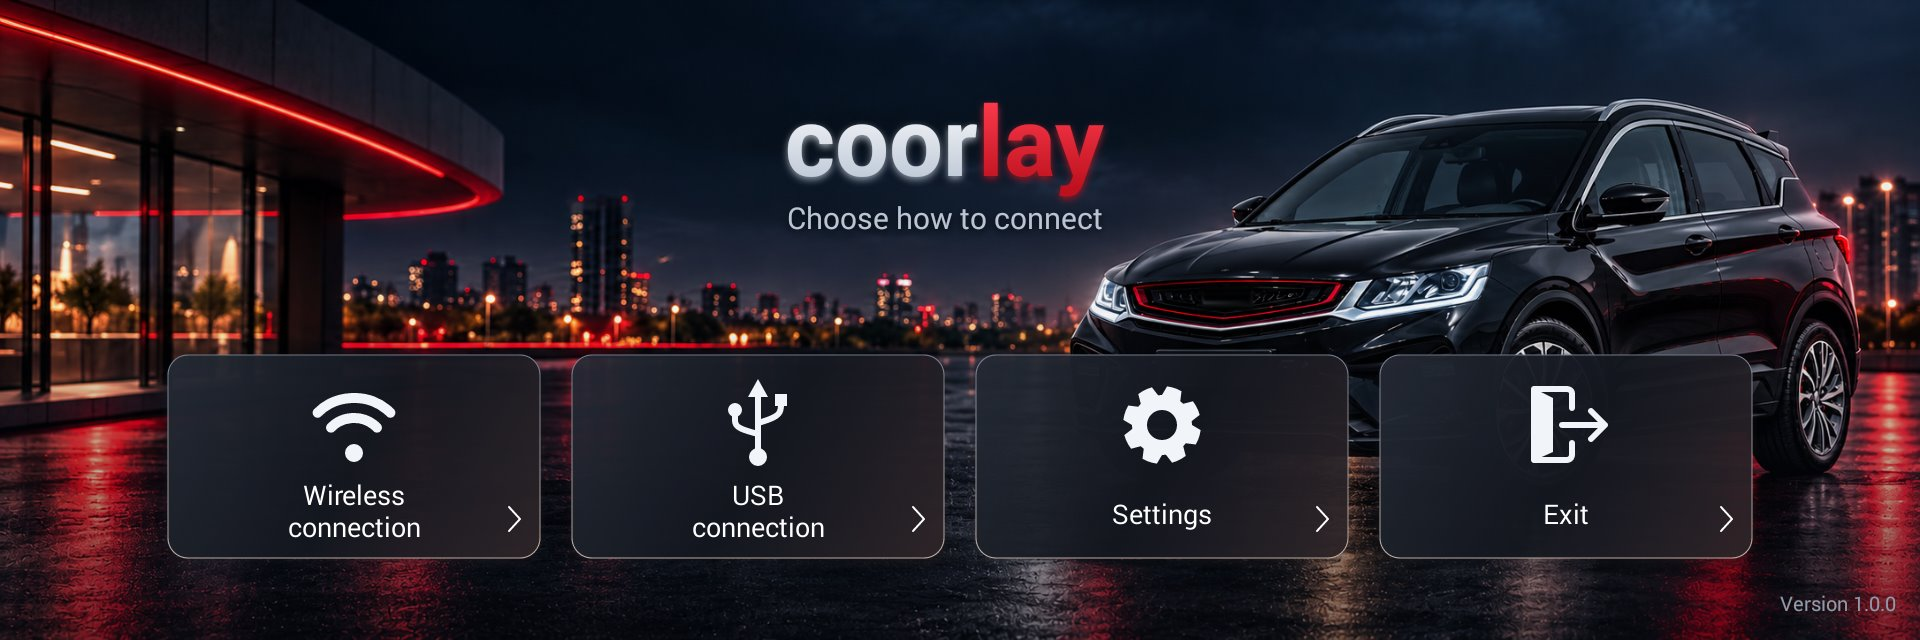
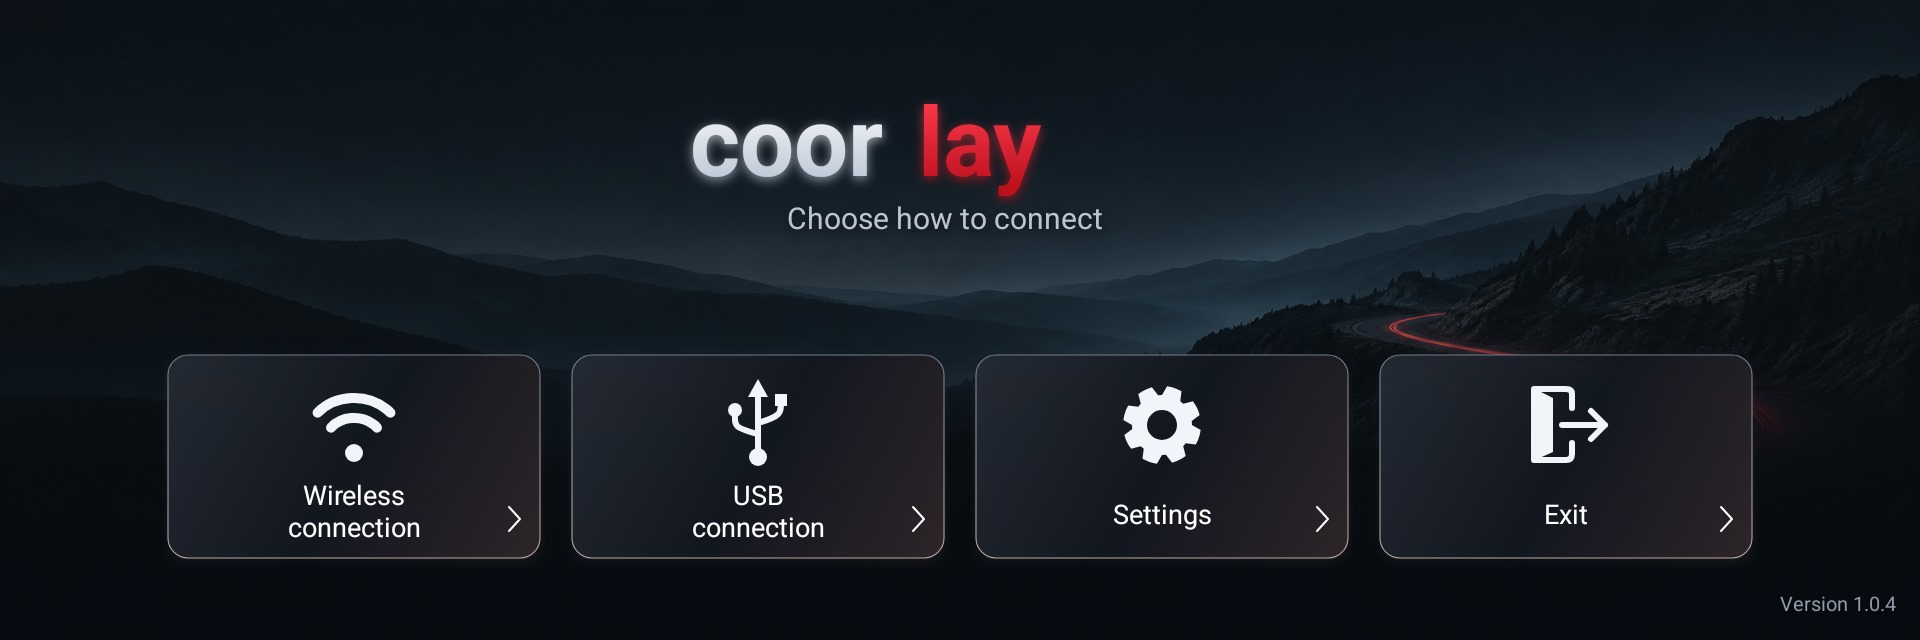
Refresh Pages for coorlay 1.0.4 and clarify head-unit support

diff --git a/index.html b/index.html
@@ -4,10 +4,10 @@
 <meta charset="utf-8">
 <meta name="viewport" content="width=device-width, initial-scale=1">
 <title>coorlay — CarPlay для Geely Coolray</title>
-<meta name="description" content="Экспериментальный CarPlay для штатной магнитолы Geely Coolray (Neusoft, Android 4.3). Experimental CarPlay for the factory Geely Coolray head unit.">
+<meta name="description" content="CarPlay по USB и Wi-Fi для Geely Coolray с магнитолой Neusoft на Android 4.3. Надёжная работа подтверждена на H30.">
 <meta property="og:title" content="coorlay — CarPlay для Geely Coolray">
-<meta property="og:description" content="Экспериментальный CarPlay для штатной магнитолы Geely Coolray (Neusoft, Android 4.3).">
-<meta property="og:image" content="https://otnep.github.io/coorlay/img/home-ru.jpg">
+<meta property="og:description" content="CarPlay для штатной магнитолы Geely Coolray. H30 проверена, H40 не тестировали, на H50 есть известные проблемы.">
+<meta property="og:image" content="https://otnep.github.io/coorlay/img/home-ru.jpg?v=1.0.4">
 <meta name="theme-color" content="#0b0d12">
 <link rel="icon" type="image/png" href="img/icon.png">
 <style>
@@ -61,7 +61,9 @@
   .hero { text-align: center; padding: 56px 0 32px; }
   .logo { font-size: clamp(56px, 12vw, 96px); font-weight: 800; letter-spacing: -0.03em; line-height: 1; margin: 0; }
   .logo span { color: var(--red); }
-  .tagline { font-size: clamp(18px, 3vw, 22px); color: var(--muted); max-width: 720px; margin: 18px auto 28px; }
+  .tagline { font-size: clamp(18px, 3vw, 22px); color: var(--muted); max-width: 720px; margin: 18px auto 12px; }
+  .compat-summary { font-size: 15px; margin: 0 auto 24px; }
+  .compat-summary a { text-decoration: underline; text-underline-offset: 3px; }
   .actions { display: flex; flex-wrap: wrap; gap: 12px; justify-content: center; }
   .btn {
     display: inline-flex; align-items: center; gap: 10px;
@@ -98,6 +100,8 @@
   tr:last-child th, tr:last-child td { border-bottom: 0; }
   th { color: var(--muted); font-weight: 500; width: 34%; }
   .note { color: var(--muted); font-size: 15px; margin-top: 12px; }
+  #device { scroll-margin-top: 60px; }
+  #device th { width: 16%; color: var(--text); font-weight: 700; }
 
   ol.steps { list-style: none; counter-reset: s; padding: 0; margin: 0; display: grid; gap: 12px; }
   ol.steps li { counter-increment: s; position: relative; padding: 16px 18px 16px 62px; background: var(--bg-card); border: 1px solid var(--line); border-radius: var(--radius); }
@@ -113,6 +117,7 @@
   .warn { background: var(--warn-bg); border: 1px solid var(--warn-line); color: var(--warn-text); border-radius: var(--radius); padding: 18px 20px; }
   .warn h3 { color: #ffd58a; }
   .warn p { margin: 6px 0 0; }
+  .upgrade { margin-bottom: 14px; }
 
   footer { border-top: 1px solid var(--line); margin-top: 56px; padding: 28px 0 40px; color: var(--muted); font-size: 14px; }
   footer p { margin: 6px 0; }
@@ -142,14 +147,18 @@
   <div class="hero">
     <h1 class="logo">coor<span>lay</span></h1>
     <p class="tagline">
-      <span lang="ru">Экспериментальный CarPlay для штатной магнитолы Geely Coolray — по USB и без провода.</span>
-      <span lang="en">Experimental CarPlay for the factory Geely Coolray head unit — over USB and wireless.</span>
+      <span lang="ru">CarPlay по USB и Wi-Fi на штатном экране Geely Coolray.</span>
+      <span lang="en">Wired and wireless CarPlay on the factory Geely Coolray screen.</span>
+    </p>
+    <p class="compat-summary">
+      <span lang="ru">Стабильная работа подтверждена только на <strong>H30</strong>. <a href="#device">H40 не тестировали, на H50 есть сбои.</a></span>
+      <span lang="en">Reliable operation is confirmed only on <strong>H30</strong>. <a href="#device">H40 is untested and H50 has known issues.</a></span>
     </p>
     <div class="actions">
-      <a class="btn primary" id="download" href="https://github.com/otnep/coorlay/releases/latest">
+      <a class="btn primary" id="download" href="https://github.com/otnep/coorlay/releases/download/v1.0.4/coorlay-1.0.4.apk">
         <svg viewBox="0 0 24 24" fill="none" stroke="currentColor" stroke-width="2" stroke-linecap="round" stroke-linejoin="round" aria-hidden="true"><path d="M12 3v12"/><path d="m7 10 5 5 5-5"/><path d="M5 21h14"/></svg>
         <span lang="ru">Скачать APK</span><span lang="en">Download APK</span>
-        <span class="ver" id="ver"></span>
+        <span class="ver" id="ver">1.0.4</span>
       </a>
       <a class="btn" href="https://github.com/otnep/coorlay">
         <svg viewBox="0 0 24 24" fill="currentColor" aria-hidden="true"><path d="M12 .5a11.5 11.5 0 0 0-3.64 22.41c.58.1.79-.25.79-.56v-2c-3.2.7-3.88-1.37-3.88-1.37-.52-1.33-1.28-1.69-1.28-1.69-1.05-.71.08-.7.08-.7 1.16.08 1.77 1.19 1.77 1.19 1.03 1.77 2.71 1.26 3.37.96.1-.75.4-1.26.73-1.55-2.56-.29-5.25-1.28-5.25-5.69 0-1.26.45-2.29 1.19-3.1-.12-.29-.52-1.46.11-3.05 0 0 .97-.31 3.17 1.18a11 11 0 0 1 5.77 0c2.2-1.49 3.17-1.18 3.17-1.18.63 1.59.23 2.76.11 3.05.74.81 1.19 1.84 1.19 3.1 0 4.42-2.7 5.39-5.27 5.68.41.36.78 1.06.78 2.14v3.17c0 .31.21.67.8.56A11.5 11.5 0 0 0 12 .5Z"/></svg>
@@ -162,14 +171,36 @@
     </p>
 
     <figure class="shot">
-      <img lang="ru" src="img/home-ru.jpg" width="1920" height="640" alt="Главный экран coorlay на магнитоле 1920×640">
-      <img lang="en" src="img/home-en.jpg" width="1920" height="640" alt="coorlay home screen on a 1920×640 head unit">
+      <img lang="ru" src="img/home-ru.jpg?v=1.0.4" width="1920" height="640" alt="Главный экран coorlay 1.0.4 на фоне ночного горного перевала">
+      <img lang="en" src="img/home-en.jpg?v=1.0.4" width="1920" height="640" alt="coorlay 1.0.4 home screen with the night mountain pass wallpaper">
       <figcaption>
-        <span lang="ru">Главный экран на магнитоле 1920×640</span>
-        <span lang="en">Home screen on the 1920×640 head unit</span>
+        <span lang="ru">Главный экран coorlay 1.0.4 · 1920×640</span>
+        <span lang="en">coorlay 1.0.4 home screen · 1920×640</span>
       </figcaption>
     </figure>
   </div>
+
+  <section id="device">
+    <h2 id="compatibility-heading"><span lang="ru">Совместимость</span><span lang="en">Compatibility</span></h2>
+    <p class="note">
+      <span lang="ru">Geely Coolray / SX11 со штатной магнитолой Neusoft, плата <code>C3ALFUS</code>, Android 4.3. Сверьте ревизию в строке версии ПО магнитолы.</span>
+      <span lang="en">Geely Coolray / SX11 with the factory Neusoft head unit, <code>C3ALFUS</code> board and Android 4.3. Check the revision in the head unit's software version.</span>
+    </p>
+    <table aria-labelledby="compatibility-heading">
+      <tr><th scope="row">H30</th><td>
+        <span lang="ru"><strong>Проверено.</strong> CarPlay по USB и по Wi-Fi работает стабильно на проверенных магнитолах H30.</span>
+        <span lang="en"><strong>Verified.</strong> Wired and wireless CarPlay run reliably on the H30 units tested.</span>
+      </td></tr>
+      <tr><th scope="row">H40</th><td>
+        <span lang="ru"><strong>Не тестировали.</strong> Данных о совместимости пока нет.</span>
+        <span lang="en"><strong>Untested.</strong> Compatibility is still unknown.</span>
+      </td></tr>
+      <tr><th scope="row">H50</th><td>
+        <span lang="ru"><strong>Есть известные проблемы.</strong> На H50 фиксировали отключения USB, задержки через точку доступа и перезапуски ГУ при подключении через Wi-Fi Direct. В 1.0.4 добавлены настройка 1 А по USB и тестовое исправление Wi-Fi Direct v8 для <code>05.07.06000.H50.00032</code>. Проверка этих изменений на H50 ещё впереди. <a href="https://github.com/otnep/coorlay/issues/2">Отчёт по H50</a></span>
+        <span lang="en"><strong>Known issues.</strong> H50 reports include USB disconnects, lag over the hotspot, and reboots when connecting via Wi-Fi Direct. Version 1.0.4 adds a 1 A USB charging setting and the experimental Wi-Fi Direct v8 fix for <code>05.07.06000.H50.00032</code>. These changes still need testing on an H50 unit. <a href="https://github.com/otnep/coorlay/issues/2">H50 issue report</a></span>
+      </td></tr>
+    </table>
+  </section>
 
   <section id="features">
     <h2><span lang="ru">Возможности</span><span lang="en">Features</span></h2>
@@ -177,17 +208,17 @@
       <div class="card">
         <div class="ico"><svg viewBox="0 0 24 24" fill="none" stroke="currentColor" stroke-width="2" stroke-linecap="round" stroke-linejoin="round"><path d="M10 7h4"/><path d="M12 3v14"/><circle cx="12" cy="19" r="2"/><path d="M7 11l-2 2 2 2"/><path d="M17 9l2 2-2 2"/></svg></div>
         <h3><span lang="ru">CarPlay по USB</span><span lang="en">CarPlay over USB</span></h3>
-        <p><span lang="ru">Подключите iPhone кабелем — изображение, касания и звук сразу на экране магнитолы.</span><span lang="en">Plug in the iPhone — video, touch and audio go straight to the head-unit screen.</span></p>
+        <p><span lang="ru">Подключите iPhone кабелем. Приложения CarPlay открываются на штатном экране и управляются касанием.</span><span lang="en">Connect the iPhone over USB and use CarPlay apps on the factory touchscreen.</span></p>
       </div>
       <div class="card">
         <div class="ico"><svg viewBox="0 0 24 24" fill="none" stroke="currentColor" stroke-width="2" stroke-linecap="round" stroke-linejoin="round"><path d="M5 12.5a10 10 0 0 1 14 0"/><path d="M8.5 16a5 5 0 0 1 7 0"/><circle cx="12" cy="19.5" r="1"/><path d="M2 9a14 14 0 0 1 20 0"/></svg></div>
         <h3><span lang="ru">Беспроводной CarPlay</span><span lang="en">Wireless CarPlay</span></h3>
-        <p><span lang="ru">Сопряжение через штатный Bluetooth, затем Wi-Fi — точка доступа магнитолы или Wi-Fi Direct.</span><span lang="en">Pairing over the factory Bluetooth, then Wi-Fi — the head unit's hotspot or Wi-Fi Direct.</span></p>
+        <p><span lang="ru">Сопрягите iPhone в штатном меню Bluetooth. CarPlay подключится через точку доступа магнитолы или Wi-Fi Direct, если он доступен.</span><span lang="en">Pair the iPhone in the factory Bluetooth menu. CarPlay connects through the head unit's hotspot or Wi-Fi Direct where available.</span></p>
       </div>
       <div class="card">
         <div class="ico"><svg viewBox="0 0 24 24" fill="none" stroke="currentColor" stroke-width="2" stroke-linecap="round" stroke-linejoin="round"><rect x="9" y="2" width="6" height="12" rx="3"/><path d="M5 11a7 7 0 0 0 14 0"/><path d="M12 18v4"/></svg></div>
         <h3><span lang="ru">Звук, Siri и микрофон</span><span lang="en">Audio, Siri and microphone</span></h3>
-        <p><span lang="ru">Музыка, навигация, звонки и голосовое управление через штатные динамики и микрофон.</span><span lang="en">Music, navigation, calls and voice control through the car's speakers and microphone.</span></p>
+        <p><span lang="ru">Музыка, звонки, Siri и навигационные подсказки используют штатные динамики и микрофон.</span><span lang="en">Music, calls, Siri and navigation prompts use the car's speakers and microphone.</span></p>
       </div>
       <div class="card">
         <div class="ico"><svg viewBox="0 0 24 24" fill="none" stroke="currentColor" stroke-width="2" stroke-linecap="round" stroke-linejoin="round"><circle cx="12" cy="12" r="9"/><circle cx="12" cy="12" r="2.5"/><path d="M12 3v6.5"/><path d="M4.5 16.5 9.8 13.3"/><path d="m19.5 16.5-5.3-3.2"/></svg></div>
@@ -197,56 +228,42 @@
       <div class="card">
         <div class="ico"><svg viewBox="0 0 24 24" fill="none" stroke="currentColor" stroke-width="2" stroke-linecap="round" stroke-linejoin="round"><path d="M12 2v4"/><path d="M12 18v4"/><path d="m4.9 4.9 2.8 2.8"/><path d="m16.3 16.3 2.8 2.8"/><path d="M2 12h4"/><path d="M18 12h4"/><path d="m4.9 19.1 2.8-2.8"/><path d="m16.3 7.7 2.8-2.8"/></svg></div>
         <h3><span lang="ru">Автозапуск</span><span lang="en">Autostart</span></h3>
-        <p><span lang="ru">Стартует вместе с магнитолой и подключается сам: по USB сразу, без провода — через точку доступа.</span><span lang="en">Starts with the head unit and connects by itself: USB at once, wireless through the hotspot.</span></p>
+        <p><span lang="ru">В настройках можно включить запуск вместе с магнитолой и автоматическое беспроводное подключение.</span><span lang="en">Settings let you start coorlay with the head unit and enable automatic wireless connections.</span></p>
       </div>
       <div class="card">
         <div class="ico"><svg viewBox="0 0 24 24" fill="none" stroke="currentColor" stroke-width="2" stroke-linecap="round" stroke-linejoin="round"><path d="M14 3H6a2 2 0 0 0-2 2v14a2 2 0 0 0 2 2h12a2 2 0 0 0 2-2V9z"/><path d="M14 3v6h6"/><path d="M8 13h8"/><path d="M8 17h5"/></svg></div>
         <h3><span lang="ru">Диагностика</span><span lang="en">Diagnostics</span></h3>
-        <p><span lang="ru">Журнал подключения сохраняется на флешку — с ним проще разобраться в проблеме. Интерфейс на русском и английском.</span><span lang="en">The connection log is saved to a USB stick to help track down problems. Russian and English interface.</span></p>
+        <p><span lang="ru">Если подключение срывается, сохраните журнал на флешку и приложите его к <a href="https://github.com/otnep/coorlay/issues">сообщению о проблеме</a>.</span><span lang="en">If a connection fails, save the log to a USB stick and attach it to an <a href="https://github.com/otnep/coorlay/issues">issue report</a>.</span></p>
       </div>
     </div>
   </section>
 
-  <section id="device">
-    <h2><span lang="ru">Для какой магнитолы</span><span lang="en">Supported head unit</span></h2>
-    <table>
-      <tr><th><span lang="ru">Автомобиль</span><span lang="en">Car</span></th><td>Geely Coolray / SX11</td></tr>
-      <tr><th><span lang="ru">Магнитола</span><span lang="en">Head unit</span></th><td>Neusoft, <code>C3ALFUS</code></td></tr>
-      <tr><th><span lang="ru">Прошивка</span><span lang="en">Firmware</span></th><td><code>05.05.*</code> – <code>05.07.*</code></td></tr>
-      <tr><th><span lang="ru">Система</span><span lang="en">System</span></th><td>Android 4.3 / API 18</td></tr>
-      <tr><th><span lang="ru">Экран</span><span lang="en">Screen</span></th><td>1920×640</td></tr>
-    </table>
-    <p class="note">
-      <span lang="ru">Другие магнитолы и прошивки не проверялись и не поддерживаются.</span>
-      <span lang="en">Other head units and firmware versions have not been tested and are not supported.</span>
-    </p>
-  </section>
-
   <section id="install">
     <h2><span lang="ru">Установка</span><span lang="en">Installation</span></h2>
+    <div class="warn upgrade">
+      <h3><span lang="ru">Переход на 1.0.4</span><span lang="en">Updating to 1.0.4</span></h3>
+      <p lang="ru">У версии 1.0.4 новая подпись APK. При переходе со старой официальной версии сначала удалите её. Настройки и сопряжения, сохранённые в приложении, при этом сбросятся.</p>
+      <p lang="en">Version 1.0.4 uses a new APK signing key. Uninstall the earlier official version before updating. This resets the settings and pairings stored in the app.</p>
+    </div>
     <ol class="steps">
       <li>
-        <span lang="ru">Скачайте APK и скопируйте его на флешку (FAT32).</span>
-        <span lang="en">Download the APK and copy it to a USB stick (FAT32).</span>
+        <span lang="ru">Скачайте APK и скопируйте его на флешку FAT32.</span>
+        <span lang="en">Download the APK and copy it to a FAT32 USB stick.</span>
       </li>
       <li>
-        <span lang="ru">Если стоят прежние сборки coorlay 0.0.x (пакет <code>com.shihab.diplay.coolray43</code>), удалите их: версия 1.0.0 ставится отдельным приложением, и две копии будут мешать друг другу.</span>
-        <span lang="en">If an earlier coorlay 0.0.x build is installed (package <code>com.shihab.diplay.coolray43</code>), uninstall it: 1.0.0 installs as a separate app, and two copies get in each other's way.</span>
+        <span lang="ru">Установите APK через файловый менеджер магнитолы. Для автоматической установки с флешки есть <a href="https://github.com/otnep/coorlay/releases/latest">архив для USB</a> и <a href="https://github.com/otnep/coorlay/blob/main/RootInstall/ROOT-INSTALL.md">инструкция</a>.</span>
+        <span lang="en">Install the APK with the head unit's file manager. For automatic installation from a USB stick, see the <a href="https://github.com/otnep/coorlay/releases/latest">USB installer</a> and its <a href="https://github.com/otnep/coorlay/blob/main/RootInstall/ROOT-INSTALL.md">guide</a> (in Russian).</span>
       </li>
       <li>
-        <span lang="ru">Установите APK файловым менеджером магнитолы — или <a href="https://github.com/otnep/coorlay/blob/main/RootInstall/ROOT-INSTALL.md">с флешки от root</a>: так же исправляется Wi-Fi Direct.</span>
-        <span lang="en">Install the APK with the head unit's file manager — or <a href="https://github.com/otnep/coorlay/blob/main/RootInstall/ROOT-INSTALL.md">as root from a USB stick</a> (in Russian), which also fixes Wi-Fi Direct.</span>
-      </li>
-      <li>
-        <span lang="ru">Подключите iPhone кабелем или выберите «Беспроводное подключение». Для беспроводного сначала выполните сопряжение iPhone в штатном меню Bluetooth магнитолы.</span>
-        <span lang="en">Connect the iPhone with a cable or choose "Wireless connection". For wireless, first pair the iPhone in the head unit's own Bluetooth menu.</span>
+        <span lang="ru">Откройте coorlay и выберите «Подключение по USB». Для беспроводного режима сначала сопрягите iPhone в штатном меню Bluetooth и нажмите «Беспроводное подключение».</span>
+        <span lang="en">Open coorlay and choose “USB connection”. For wireless, pair the iPhone in the head unit's Bluetooth menu first, then choose “Wireless connection”.</span>
       </li>
     </ol>
     <div class="card fix">
       <h3><span lang="ru">Wi-Fi Direct не включается?</span><span lang="en">Wi-Fi Direct does not turn on?</span></h3>
       <p>
-        <span lang="ru">На штатной прошивке Wi-Fi Direct не работает из-за ошибки в её настройках Wi-Fi. Её исправляет флешка: магнитола сама запускает скрипт от root, он меняет один системный файл и больше ничего не трогает. Можно исправить только Wi-Fi Direct, не переустанавливая coorlay. Без исправления беспроводной CarPlay работает через точку доступа магнитолы.</span>
-        <span lang="en">On the stock firmware Wi-Fi Direct is broken by a mistake in its Wi-Fi configuration. A USB stick fixes it: the head unit runs the script as root, and it changes one system file and nothing else. You can fix only Wi-Fi Direct without reinstalling coorlay. Without the fix, wireless CarPlay works through the head unit's hotspot.</span>
+        <span lang="ru">Для H30 есть отдельный USB-архив с исправлением Wi-Fi Direct. На H50 используйте v8 только для указанной в инструкции сборки прошивки. Чтобы подключаться через точку доступа магнитолы, выключите Wi-Fi Direct в настройках coorlay.</span>
+        <span lang="en">A separate USB archive provides the Wi-Fi Direct fix for H30. On H50, use v8 only on the firmware build listed in the guide. To connect through the head unit's hotspot, turn off Wi-Fi Direct in coorlay settings.</span>
       </p>
       <a class="btn" href="https://github.com/otnep/coorlay/blob/main/RootInstall/ROOT-INSTALL.md">
         <span lang="ru">Инструкция по исправлению Wi-Fi Direct</span>
@@ -312,7 +329,7 @@
     if (lang) setLang(lang, true);
   });
 
-  // The button opens the latest release page; when GitHub answers, it links the APK directly.
+  // Keep the download working with the bundled release link if GitHub's API is unavailable.
   fetch('https://api.github.com/repos/otnep/coorlay/releases/latest')
     .then(function (response) { return response.ok ? response.json() : null; })
     .then(function (release) {
